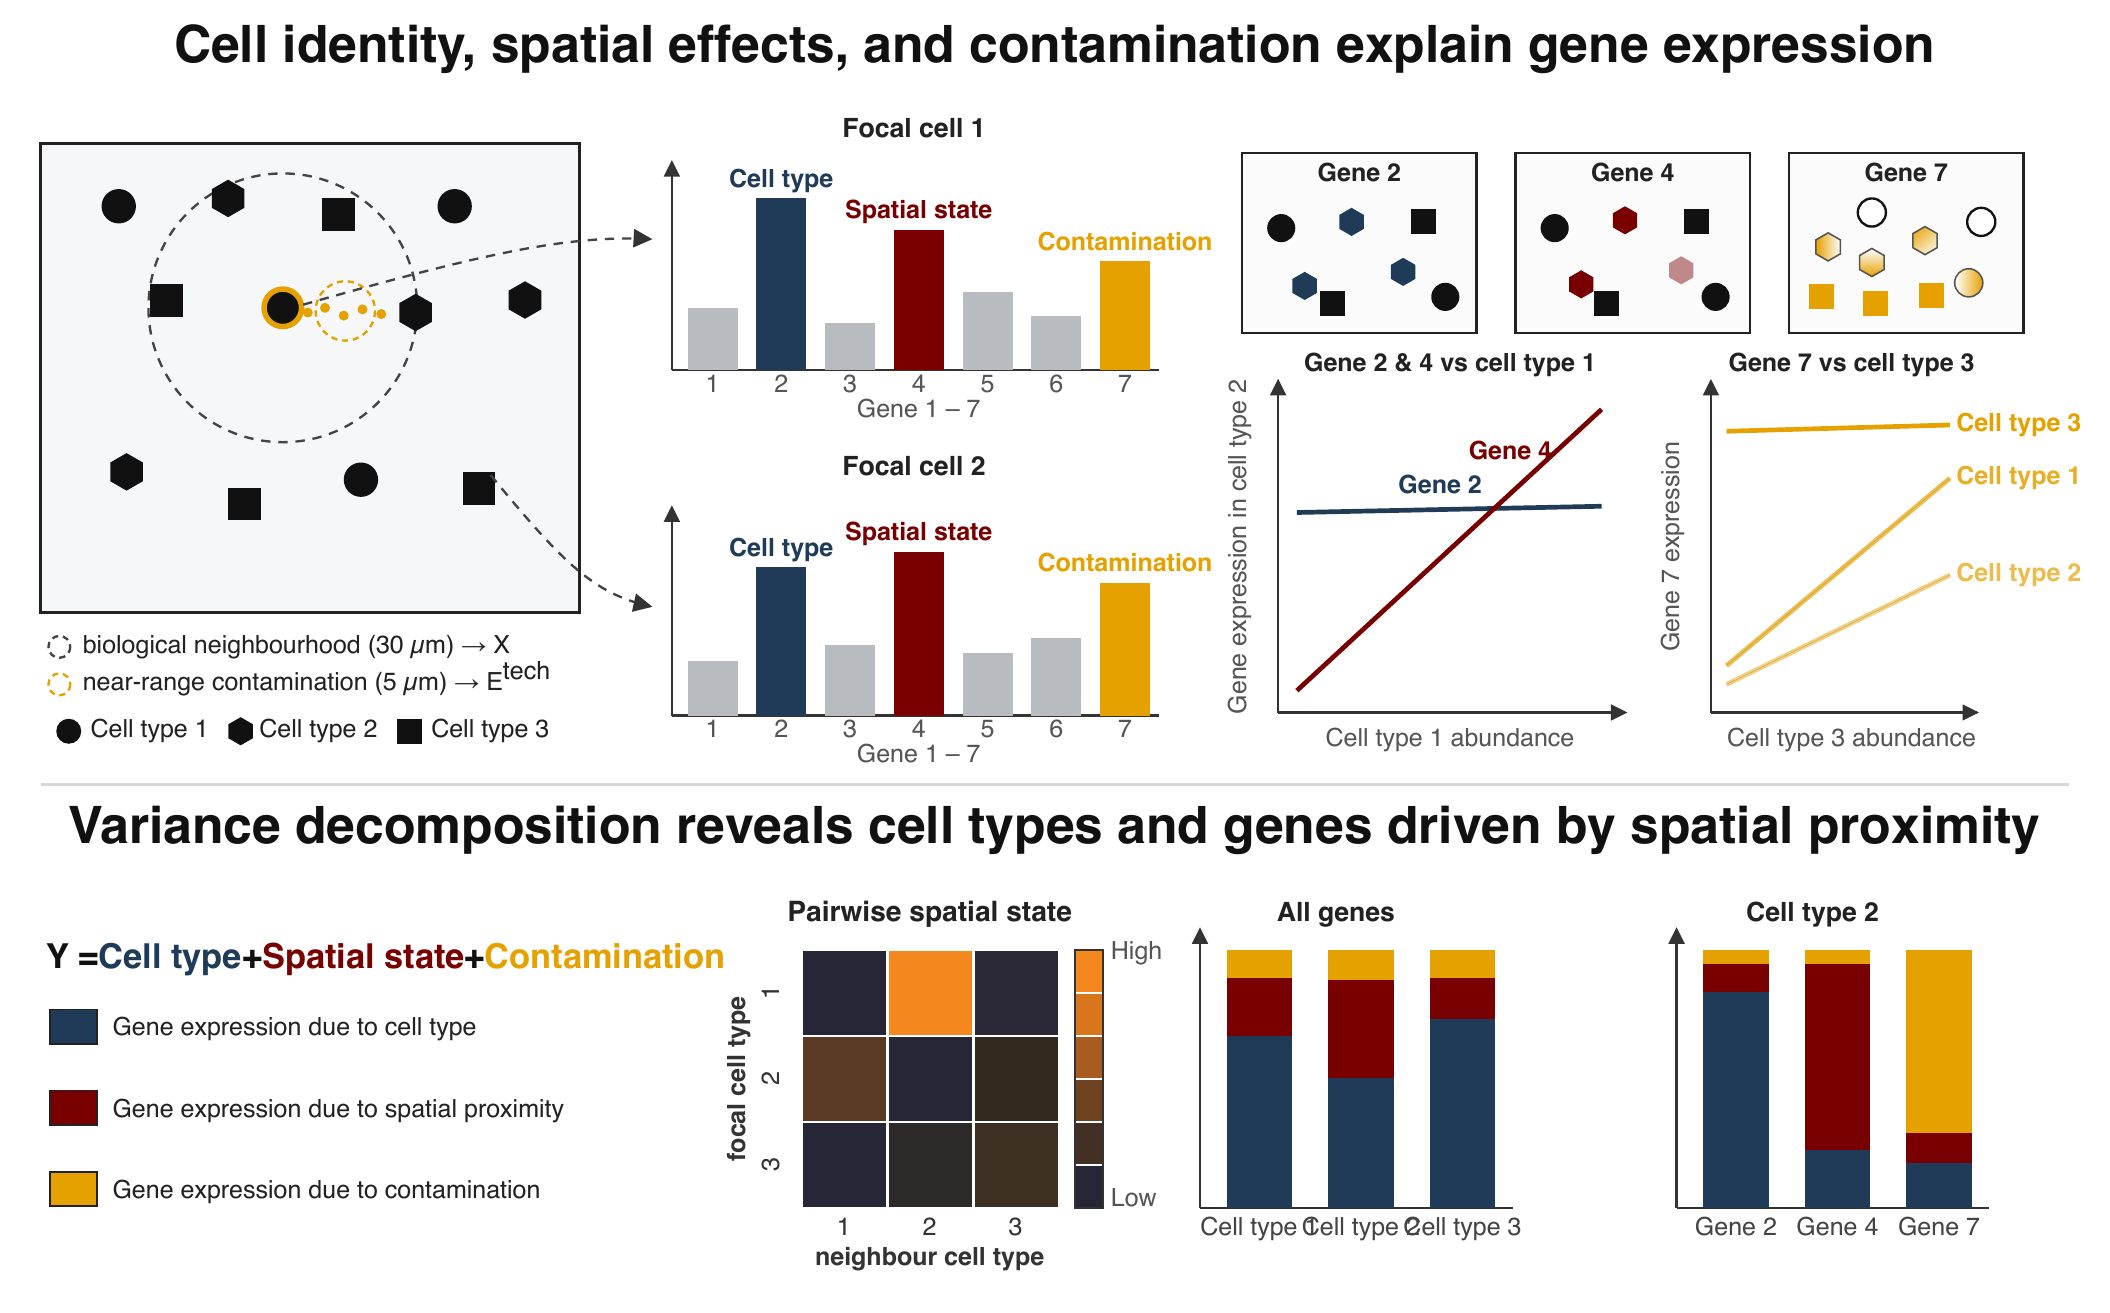
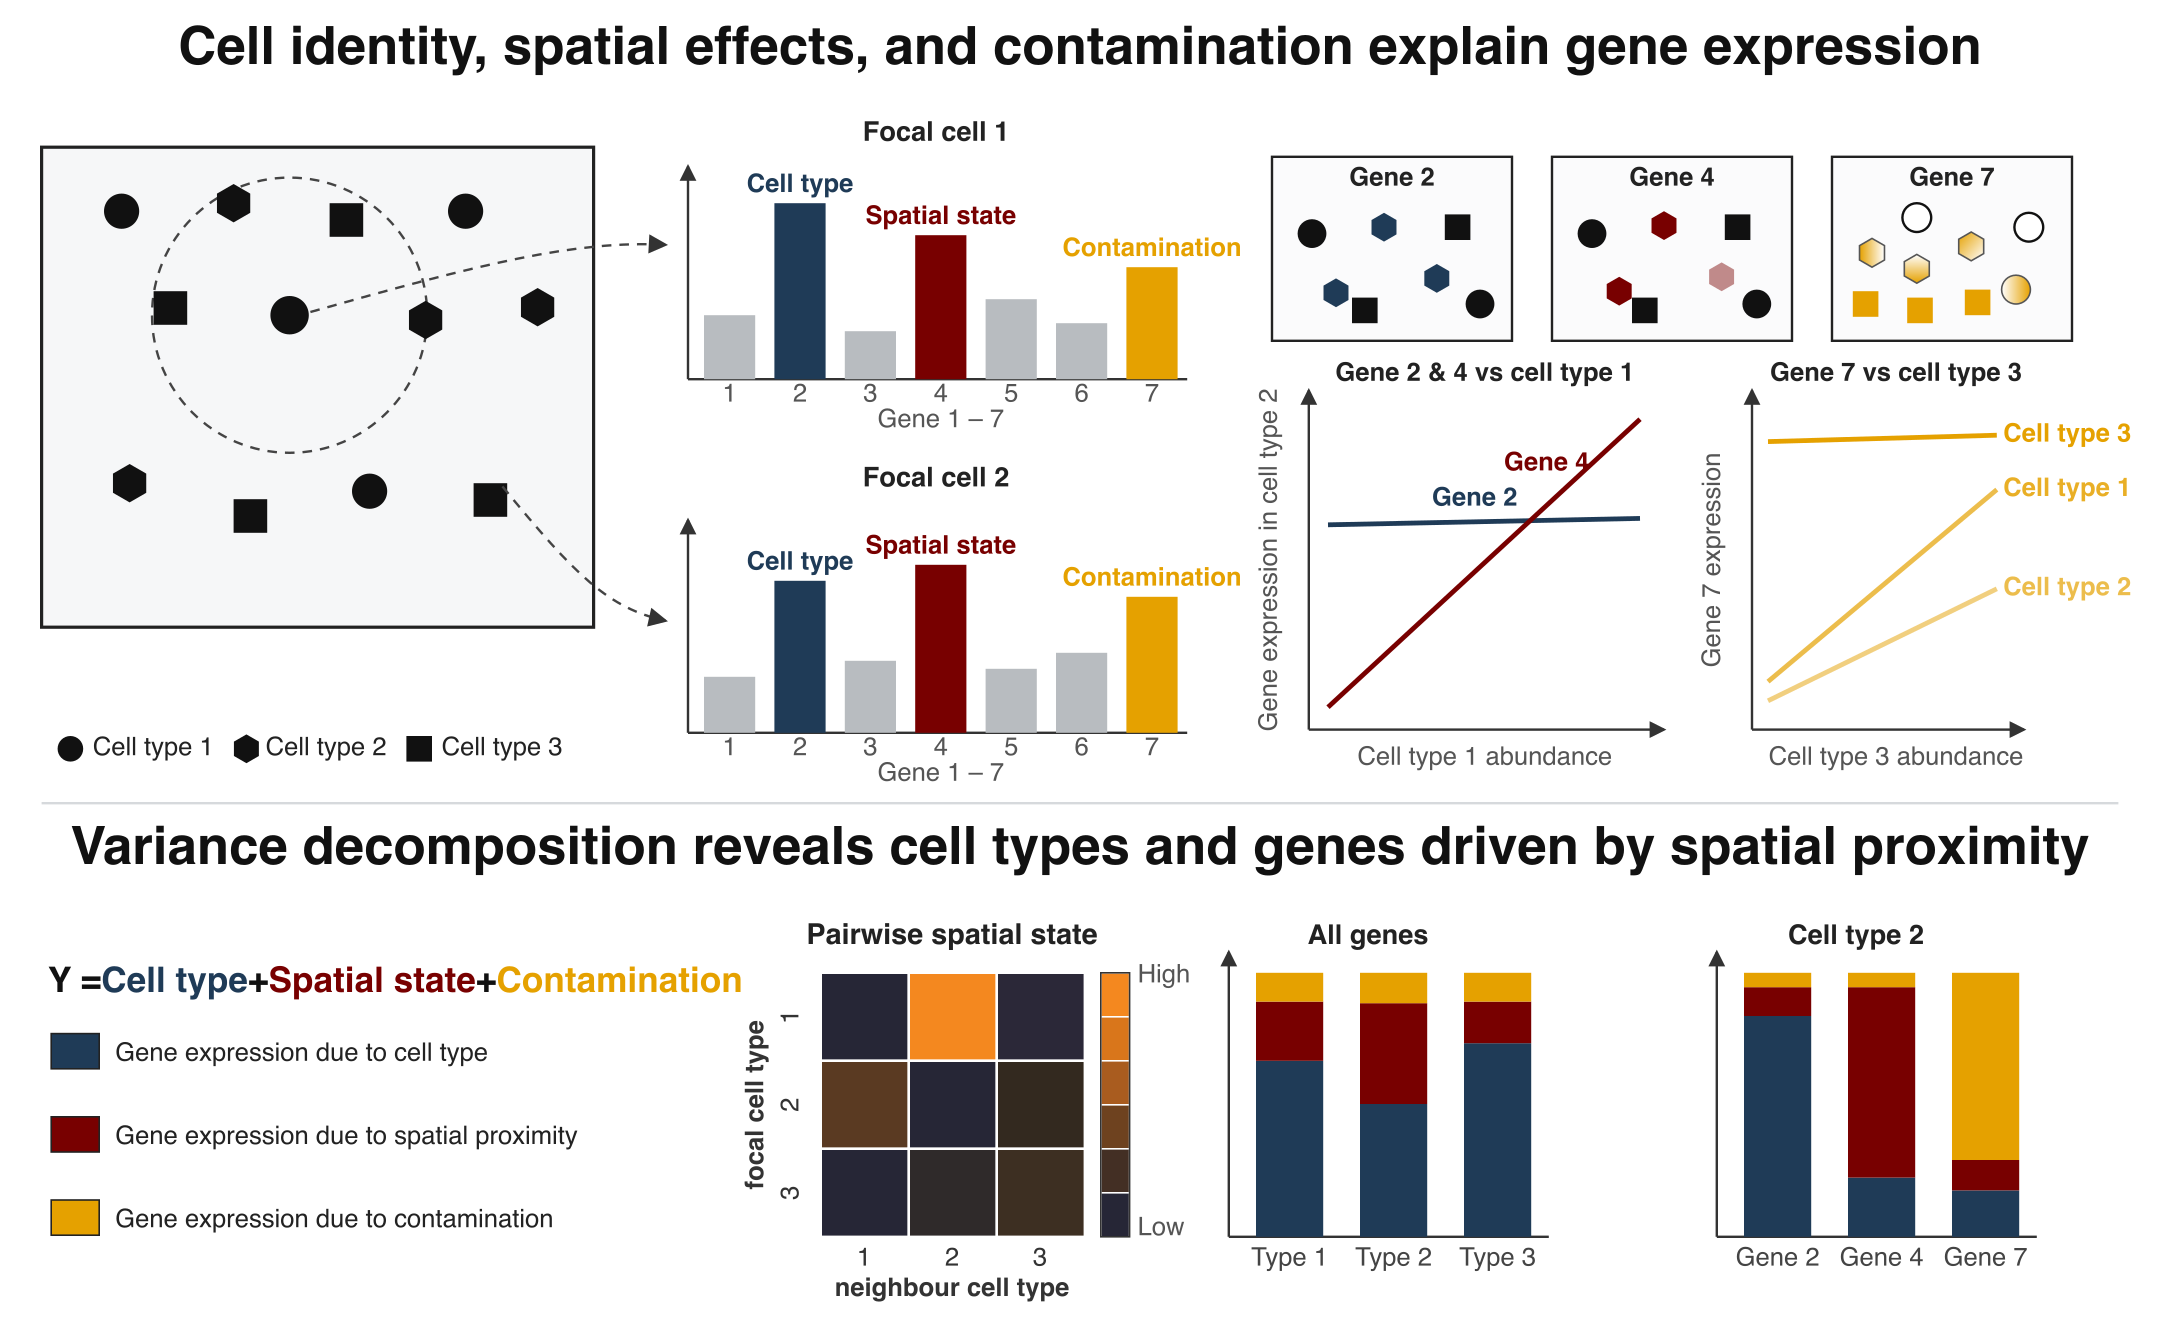
Deploying to gh-pages from @ ecool50/PACE@fbd9a6d8c1837e16711cf9d54a4178f00fd7c3f9 🚀

diff --git a/articles/PACE.html b/articles/PACE.html
@@ -191,15 +191,15 @@ whole pipeline. On this crop it takes about half a minute.</p>
 <span><span class="co">#&gt;  - Computing posterior matrices.</span></span>
 <span><span class="co">#&gt;  - Computation allocated took 0.00 seconds.</span></span>
 <span><span class="co">#&gt;  - Computing 278 x 404 likelihood matrix.</span></span>
-<span><span class="co">#&gt;  - Likelihood calculations took 0.10 seconds.</span></span>
+<span><span class="co">#&gt;  - Likelihood calculations took 0.09 seconds.</span></span>
 <span><span class="co">#&gt;  - Fitting model with 404 mixture components.</span></span>
-<span><span class="co">#&gt;  - Model fitting took 0.14 seconds.</span></span>
+<span><span class="co">#&gt;  - Model fitting took 0.15 seconds.</span></span>
 <span><span class="co">#&gt;  - Computing posterior matrices.</span></span>
 <span><span class="co">#&gt;  - Computation allocated took 0.00 seconds.</span></span>
 <span><span class="co">#&gt;  - Computing 278 x 417 likelihood matrix.</span></span>
-<span><span class="co">#&gt;  - Likelihood calculations took 0.10 seconds.</span></span>
+<span><span class="co">#&gt;  - Likelihood calculations took 0.09 seconds.</span></span>
 <span><span class="co">#&gt;  - Fitting model with 417 mixture components.</span></span>
-<span><span class="co">#&gt;  - Model fitting took 0.22 seconds.</span></span>
+<span><span class="co">#&gt;  - Model fitting took 0.23 seconds.</span></span>
 <span><span class="co">#&gt;  - Computing posterior matrices.</span></span>
 <span><span class="co">#&gt;  - Computation allocated took 0.00 seconds.</span></span>
 <span><span class="co">#&gt;  - Computing 278 x 92 likelihood matrix.</span></span>
@@ -211,31 +211,31 @@ whole pipeline. On this crop it takes about half a minute.</p>
 <span><span class="co">#&gt;  - Computing 278 x 391 likelihood matrix.</span></span>
 <span><span class="co">#&gt;  - Likelihood calculations took 0.09 seconds.</span></span>
 <span><span class="co">#&gt;  - Fitting model with 391 mixture components.</span></span>
-<span><span class="co">#&gt;  - Model fitting took 0.11 seconds.</span></span>
+<span><span class="co">#&gt;  - Model fitting took 0.12 seconds.</span></span>
 <span><span class="co">#&gt;  - Computing posterior matrices.</span></span>
 <span><span class="co">#&gt;  - Computation allocated took 0.00 seconds.</span></span>
 <span><span class="co">#&gt;  - Computing 278 x 430 likelihood matrix.</span></span>
-<span><span class="co">#&gt;  - Likelihood calculations took 0.10 seconds.</span></span>
+<span><span class="co">#&gt;  - Likelihood calculations took 0.09 seconds.</span></span>
 <span><span class="co">#&gt;  - Fitting model with 430 mixture components.</span></span>
 <span><span class="co">#&gt;  - Model fitting took 0.14 seconds.</span></span>
 <span><span class="co">#&gt;  - Computing posterior matrices.</span></span>
 <span><span class="co">#&gt;  - Computation allocated took 0.00 seconds.</span></span>
 <span><span class="co">#&gt;  - Computing 278 x 628 likelihood matrix.</span></span>
-<span><span class="co">#&gt;  - Likelihood calculations took 0.16 seconds.</span></span>
+<span><span class="co">#&gt;  - Likelihood calculations took 0.15 seconds.</span></span>
 <span><span class="co">#&gt;  - Fitting model with 628 mixture components.</span></span>
-<span><span class="co">#&gt;  - Model fitting took 0.19 seconds.</span></span>
+<span><span class="co">#&gt;  - Model fitting took 0.18 seconds.</span></span>
 <span><span class="co">#&gt;  - Computing posterior matrices.</span></span>
 <span><span class="co">#&gt;  - Computation allocated took 0.00 seconds.</span></span>
 <span><span class="co">#&gt;  - Computing 278 x 404 likelihood matrix.</span></span>
-<span><span class="co">#&gt;  - Likelihood calculations took 0.10 seconds.</span></span>
+<span><span class="co">#&gt;  - Likelihood calculations took 0.09 seconds.</span></span>
 <span><span class="co">#&gt;  - Fitting model with 404 mixture components.</span></span>
-<span><span class="co">#&gt;  - Model fitting took 0.34 seconds.</span></span>
+<span><span class="co">#&gt;  - Model fitting took 0.35 seconds.</span></span>
 <span><span class="co">#&gt;  - Computing posterior matrices.</span></span>
-<span><span class="co">#&gt;  - Computation allocated took 0.01 seconds.</span></span>
+<span><span class="co">#&gt;  - Computation allocated took 0.00 seconds.</span></span>
 <span><span class="co">#&gt;  - Computing 278 x 590 likelihood matrix.</span></span>
-<span><span class="co">#&gt;  - Likelihood calculations took 0.15 seconds.</span></span>
+<span><span class="co">#&gt;  - Likelihood calculations took 0.14 seconds.</span></span>
 <span><span class="co">#&gt;  - Fitting model with 590 mixture components.</span></span>
-<span><span class="co">#&gt;  - Model fitting took 0.66 seconds.</span></span>
+<span><span class="co">#&gt;  - Model fitting took 0.70 seconds.</span></span>
 <span><span class="co">#&gt;  - Computing posterior matrices.</span></span>
 <span><span class="co">#&gt;  - Computation allocated took 0.01 seconds.</span></span>
 <span><span class="va">fit</span></span>

diff --git a/reference/paceFit.html b/reference/paceFit.html
@@ -95,14 +95,14 @@ without refitting), call those stages directly.</p>
 <span class="r-out co"><span class="r-pr">#&gt;</span>  - Computing 278 x 404 likelihood matrix.</span>
 <span class="r-out co"><span class="r-pr">#&gt;</span>  - Likelihood calculations took 0.09 seconds.</span>
 <span class="r-out co"><span class="r-pr">#&gt;</span>  - Fitting model with 404 mixture components.</span>
-<span class="r-out co"><span class="r-pr">#&gt;</span>  - Model fitting took 0.14 seconds.</span>
+<span class="r-out co"><span class="r-pr">#&gt;</span>  - Model fitting took 0.15 seconds.</span>
 <span class="r-out co"><span class="r-pr">#&gt;</span>  - Computing posterior matrices.</span>
 <span class="r-out co"><span class="r-pr">#&gt;</span>  - Computation allocated took 0.00 seconds.</span>
 <span class="r-msg co"><span class="r-pr">#&gt;</span>   [mashr] Endothelial: 278 genes shrunk; sig (lfsr&lt;0.05) = 2</span>
 <span class="r-out co"><span class="r-pr">#&gt;</span>  - Computing 278 x 417 likelihood matrix.</span>
-<span class="r-out co"><span class="r-pr">#&gt;</span>  - Likelihood calculations took 0.10 seconds.</span>
+<span class="r-out co"><span class="r-pr">#&gt;</span>  - Likelihood calculations took 0.09 seconds.</span>
 <span class="r-out co"><span class="r-pr">#&gt;</span>  - Fitting model with 417 mixture components.</span>
-<span class="r-out co"><span class="r-pr">#&gt;</span>  - Model fitting took 0.22 seconds.</span>
+<span class="r-out co"><span class="r-pr">#&gt;</span>  - Model fitting took 0.23 seconds.</span>
 <span class="r-out co"><span class="r-pr">#&gt;</span>  - Computing posterior matrices.</span>
 <span class="r-out co"><span class="r-pr">#&gt;</span>  - Computation allocated took 0.00 seconds.</span>
 <span class="r-msg co"><span class="r-pr">#&gt;</span>   [mashr] Macrophage: 278 genes shrunk; sig (lfsr&lt;0.05) = 5</span>
@@ -114,20 +114,20 @@ without refitting), call those stages directly.</p>
 <span class="r-out co"><span class="r-pr">#&gt;</span>  - Computation allocated took 0.00 seconds.</span>
 <span class="r-msg co"><span class="r-pr">#&gt;</span>   [mashr] Myoepithelial: 278 genes shrunk; sig (lfsr&lt;0.05) = 0</span>
 <span class="r-out co"><span class="r-pr">#&gt;</span>  - Computing 278 x 391 likelihood matrix.</span>
-<span class="r-out co"><span class="r-pr">#&gt;</span>  - Likelihood calculations took 0.09 seconds.</span>
+<span class="r-out co"><span class="r-pr">#&gt;</span>  - Likelihood calculations took 0.08 seconds.</span>
 <span class="r-out co"><span class="r-pr">#&gt;</span>  - Fitting model with 391 mixture components.</span>
 <span class="r-out co"><span class="r-pr">#&gt;</span>  - Model fitting took 0.11 seconds.</span>
 <span class="r-out co"><span class="r-pr">#&gt;</span>  - Computing posterior matrices.</span>
 <span class="r-out co"><span class="r-pr">#&gt;</span>  - Computation allocated took 0.00 seconds.</span>
 <span class="r-msg co"><span class="r-pr">#&gt;</span>   [mashr] Stromal: 278 genes shrunk; sig (lfsr&lt;0.05) = 3</span>
 <span class="r-out co"><span class="r-pr">#&gt;</span>  - Computing 278 x 430 likelihood matrix.</span>
-<span class="r-out co"><span class="r-pr">#&gt;</span>  - Likelihood calculations took 0.10 seconds.</span>
+<span class="r-out co"><span class="r-pr">#&gt;</span>  - Likelihood calculations took 0.09 seconds.</span>
 <span class="r-out co"><span class="r-pr">#&gt;</span>  - Fitting model with 430 mixture components.</span>
 <span class="r-out co"><span class="r-pr">#&gt;</span>  - Model fitting took 0.14 seconds.</span>
 <span class="r-out co"><span class="r-pr">#&gt;</span>  - Computing posterior matrices.</span>
 <span class="r-out co"><span class="r-pr">#&gt;</span>  - Computation allocated took 0.00 seconds.</span>
 <span class="r-out co"><span class="r-pr">#&gt;</span>  - Computing 278 x 628 likelihood matrix.</span>
-<span class="r-out co"><span class="r-pr">#&gt;</span>  - Likelihood calculations took 0.16 seconds.</span>
+<span class="r-out co"><span class="r-pr">#&gt;</span>  - Likelihood calculations took 0.15 seconds.</span>
 <span class="r-out co"><span class="r-pr">#&gt;</span>  - Fitting model with 628 mixture components.</span>
 <span class="r-out co"><span class="r-pr">#&gt;</span>  - Model fitting took 0.18 seconds.</span>
 <span class="r-out co"><span class="r-pr">#&gt;</span>  - Computing posterior matrices.</span>
@@ -136,15 +136,15 @@ without refitting), call those stages directly.</p>
 <span class="r-out co"><span class="r-pr">#&gt;</span>  - Computing 278 x 404 likelihood matrix.</span>
 <span class="r-out co"><span class="r-pr">#&gt;</span>  - Likelihood calculations took 0.09 seconds.</span>
 <span class="r-out co"><span class="r-pr">#&gt;</span>  - Fitting model with 404 mixture components.</span>
-<span class="r-out co"><span class="r-pr">#&gt;</span>  - Model fitting took 0.34 seconds.</span>
+<span class="r-out co"><span class="r-pr">#&gt;</span>  - Model fitting took 0.36 seconds.</span>
 <span class="r-out co"><span class="r-pr">#&gt;</span>  - Computing posterior matrices.</span>
 <span class="r-out co"><span class="r-pr">#&gt;</span>  - Computation allocated took 0.00 seconds.</span>
 <span class="r-out co"><span class="r-pr">#&gt;</span>  - Computing 278 x 590 likelihood matrix.</span>
-<span class="r-out co"><span class="r-pr">#&gt;</span>  - Likelihood calculations took 0.15 seconds.</span>
+<span class="r-out co"><span class="r-pr">#&gt;</span>  - Likelihood calculations took 0.14 seconds.</span>
 <span class="r-out co"><span class="r-pr">#&gt;</span>  - Fitting model with 590 mixture components.</span>
-<span class="r-out co"><span class="r-pr">#&gt;</span>  - Model fitting took 0.67 seconds.</span>
+<span class="r-out co"><span class="r-pr">#&gt;</span>  - Model fitting took 0.71 seconds.</span>
 <span class="r-out co"><span class="r-pr">#&gt;</span>  - Computing posterior matrices.</span>
-<span class="r-out co"><span class="r-pr">#&gt;</span>  - Computation allocated took 0.01 seconds.</span>
+<span class="r-out co"><span class="r-pr">#&gt;</span>  - Computation allocated took 0.00 seconds.</span>
 <span class="r-msg co"><span class="r-pr">#&gt;</span>   [mashr] Tumour: 278 genes shrunk; sig (lfsr&lt;0.05) = 29</span>
 <span class="r-in"><span><span class="fu"><a href="https://rdrr.io/r/utils/head.html" class="external-link">head</a></span><span class="op">(</span><span class="fu"><a href="neighbourSlopes.html">neighbourSlopes</a></span><span class="op">(</span><span class="va">fit</span><span class="op">)</span><span class="op">)</span></span></span>
 <span class="r-out co"><span class="r-pr">#&gt;</span>     gene  focal neighbour   term      estimate   std.error estimate_shrunk</span>

diff --git a/reference/paceShrink.html b/reference/paceShrink.html
@@ -69,7 +69,7 @@ multivariate adaptive shrinkage, populating <code><a href="neighbourSlopes.html"
 <span class="r-out co"><span class="r-pr">#&gt;</span>  - Computing 278 x 313 likelihood matrix.</span>
 <span class="r-out co"><span class="r-pr">#&gt;</span>  - Likelihood calculations took 0.07 seconds.</span>
 <span class="r-out co"><span class="r-pr">#&gt;</span>  - Fitting model with 313 mixture components.</span>
-<span class="r-out co"><span class="r-pr">#&gt;</span>  - Model fitting took 0.09 seconds.</span>
+<span class="r-out co"><span class="r-pr">#&gt;</span>  - Model fitting took 0.11 seconds.</span>
 <span class="r-out co"><span class="r-pr">#&gt;</span>  - Computing posterior matrices.</span>
 <span class="r-out co"><span class="r-pr">#&gt;</span>  - Computation allocated took 0.00 seconds.</span>
 <span class="r-msg co"><span class="r-pr">#&gt;</span>   [mashr] B_Cell: 278 genes shrunk; sig (lfsr&lt;0.05) = 0</span>
@@ -104,18 +104,18 @@ multivariate adaptive shrinkage, populating <code><a href="neighbourSlopes.html"
 <span class="r-out co"><span class="r-pr">#&gt;</span>  - Computing 278 x 391 likelihood matrix.</span>
 <span class="r-out co"><span class="r-pr">#&gt;</span>  - Likelihood calculations took 0.09 seconds.</span>
 <span class="r-out co"><span class="r-pr">#&gt;</span>  - Fitting model with 391 mixture components.</span>
-<span class="r-out co"><span class="r-pr">#&gt;</span>  - Model fitting took 0.11 seconds.</span>
+<span class="r-out co"><span class="r-pr">#&gt;</span>  - Model fitting took 0.12 seconds.</span>
 <span class="r-out co"><span class="r-pr">#&gt;</span>  - Computing posterior matrices.</span>
 <span class="r-out co"><span class="r-pr">#&gt;</span>  - Computation allocated took 0.00 seconds.</span>
 <span class="r-msg co"><span class="r-pr">#&gt;</span>   [mashr] Stromal: 278 genes shrunk; sig (lfsr&lt;0.05) = 3</span>
 <span class="r-out co"><span class="r-pr">#&gt;</span>  - Computing 278 x 430 likelihood matrix.</span>
 <span class="r-out co"><span class="r-pr">#&gt;</span>  - Likelihood calculations took 0.10 seconds.</span>
 <span class="r-out co"><span class="r-pr">#&gt;</span>  - Fitting model with 430 mixture components.</span>
-<span class="r-out co"><span class="r-pr">#&gt;</span>  - Model fitting took 0.13 seconds.</span>
+<span class="r-out co"><span class="r-pr">#&gt;</span>  - Model fitting took 0.14 seconds.</span>
 <span class="r-out co"><span class="r-pr">#&gt;</span>  - Computing posterior matrices.</span>
 <span class="r-out co"><span class="r-pr">#&gt;</span>  - Computation allocated took 0.00 seconds.</span>
 <span class="r-out co"><span class="r-pr">#&gt;</span>  - Computing 278 x 628 likelihood matrix.</span>
-<span class="r-out co"><span class="r-pr">#&gt;</span>  - Likelihood calculations took 0.16 seconds.</span>
+<span class="r-out co"><span class="r-pr">#&gt;</span>  - Likelihood calculations took 0.15 seconds.</span>
 <span class="r-out co"><span class="r-pr">#&gt;</span>  - Fitting model with 628 mixture components.</span>
 <span class="r-out co"><span class="r-pr">#&gt;</span>  - Model fitting took 0.18 seconds.</span>
 <span class="r-out co"><span class="r-pr">#&gt;</span>  - Computing posterior matrices.</span>
@@ -124,13 +124,13 @@ multivariate adaptive shrinkage, populating <code><a href="neighbourSlopes.html"
 <span class="r-out co"><span class="r-pr">#&gt;</span>  - Computing 278 x 404 likelihood matrix.</span>
 <span class="r-out co"><span class="r-pr">#&gt;</span>  - Likelihood calculations took 0.09 seconds.</span>
 <span class="r-out co"><span class="r-pr">#&gt;</span>  - Fitting model with 404 mixture components.</span>
-<span class="r-out co"><span class="r-pr">#&gt;</span>  - Model fitting took 0.36 seconds.</span>
+<span class="r-out co"><span class="r-pr">#&gt;</span>  - Model fitting took 0.40 seconds.</span>
 <span class="r-out co"><span class="r-pr">#&gt;</span>  - Computing posterior matrices.</span>
 <span class="r-out co"><span class="r-pr">#&gt;</span>  - Computation allocated took 0.01 seconds.</span>
 <span class="r-out co"><span class="r-pr">#&gt;</span>  - Computing 278 x 590 likelihood matrix.</span>
-<span class="r-out co"><span class="r-pr">#&gt;</span>  - Likelihood calculations took 0.15 seconds.</span>
+<span class="r-out co"><span class="r-pr">#&gt;</span>  - Likelihood calculations took 0.14 seconds.</span>
 <span class="r-out co"><span class="r-pr">#&gt;</span>  - Fitting model with 590 mixture components.</span>
-<span class="r-out co"><span class="r-pr">#&gt;</span>  - Model fitting took 0.60 seconds.</span>
+<span class="r-out co"><span class="r-pr">#&gt;</span>  - Model fitting took 0.66 seconds.</span>
 <span class="r-out co"><span class="r-pr">#&gt;</span>  - Computing posterior matrices.</span>
 <span class="r-out co"><span class="r-pr">#&gt;</span>  - Computation allocated took 0.00 seconds.</span>
 <span class="r-msg co"><span class="r-pr">#&gt;</span>   [mashr] Tumour: 278 genes shrunk; sig (lfsr&lt;0.05) = 29</span>

diff --git a/articles/PACE.md b/articles/PACE.md
@@ -122,15 +122,15 @@ fit <- paceFit(spe,
 #>  - Computing posterior matrices.
 #>  - Computation allocated took 0.00 seconds.
 #>  - Computing 278 x 404 likelihood matrix.
-#>  - Likelihood calculations took 0.10 seconds.
+#>  - Likelihood calculations took 0.09 seconds.
 #>  - Fitting model with 404 mixture components.
-#>  - Model fitting took 0.14 seconds.
+#>  - Model fitting took 0.15 seconds.
 #>  - Computing posterior matrices.
 #>  - Computation allocated took 0.00 seconds.
 #>  - Computing 278 x 417 likelihood matrix.
-#>  - Likelihood calculations took 0.10 seconds.
+#>  - Likelihood calculations took 0.09 seconds.
 #>  - Fitting model with 417 mixture components.
-#>  - Model fitting took 0.22 seconds.
+#>  - Model fitting took 0.23 seconds.
 #>  - Computing posterior matrices.
 #>  - Computation allocated took 0.00 seconds.
 #>  - Computing 278 x 92 likelihood matrix.
@@ -142,31 +142,31 @@ fit <- paceFit(spe,
 #>  - Computing 278 x 391 likelihood matrix.
 #>  - Likelihood calculations took 0.09 seconds.
 #>  - Fitting model with 391 mixture components.
-#>  - Model fitting took 0.11 seconds.
+#>  - Model fitting took 0.12 seconds.
 #>  - Computing posterior matrices.
 #>  - Computation allocated took 0.00 seconds.
 #>  - Computing 278 x 430 likelihood matrix.
-#>  - Likelihood calculations took 0.10 seconds.
+#>  - Likelihood calculations took 0.09 seconds.
 #>  - Fitting model with 430 mixture components.
 #>  - Model fitting took 0.14 seconds.
 #>  - Computing posterior matrices.
 #>  - Computation allocated took 0.00 seconds.
 #>  - Computing 278 x 628 likelihood matrix.
-#>  - Likelihood calculations took 0.16 seconds.
+#>  - Likelihood calculations took 0.15 seconds.
 #>  - Fitting model with 628 mixture components.
-#>  - Model fitting took 0.19 seconds.
+#>  - Model fitting took 0.18 seconds.
 #>  - Computing posterior matrices.
 #>  - Computation allocated took 0.00 seconds.
 #>  - Computing 278 x 404 likelihood matrix.
-#>  - Likelihood calculations took 0.10 seconds.
+#>  - Likelihood calculations took 0.09 seconds.
 #>  - Fitting model with 404 mixture components.
-#>  - Model fitting took 0.34 seconds.
+#>  - Model fitting took 0.35 seconds.
 #>  - Computing posterior matrices.
-#>  - Computation allocated took 0.01 seconds.
+#>  - Computation allocated took 0.00 seconds.
 #>  - Computing 278 x 590 likelihood matrix.
-#>  - Likelihood calculations took 0.15 seconds.
+#>  - Likelihood calculations took 0.14 seconds.
 #>  - Fitting model with 590 mixture components.
-#>  - Model fitting took 0.66 seconds.
+#>  - Model fitting took 0.70 seconds.
 #>  - Computing posterior matrices.
 #>  - Computation allocated took 0.01 seconds.
 fit

diff --git a/reference/paceFit.md b/reference/paceFit.md
@@ -65,14 +65,14 @@ fit <- paceFit(spe, celltype_col = "cellType", verbose = FALSE)
 #>  - Computing 278 x 404 likelihood matrix.
 #>  - Likelihood calculations took 0.09 seconds.
 #>  - Fitting model with 404 mixture components.
-#>  - Model fitting took 0.14 seconds.
+#>  - Model fitting took 0.15 seconds.
 #>  - Computing posterior matrices.
 #>  - Computation allocated took 0.00 seconds.
 #>   [mashr] Endothelial: 278 genes shrunk; sig (lfsr<0.05) = 2
 #>  - Computing 278 x 417 likelihood matrix.
-#>  - Likelihood calculations took 0.10 seconds.
+#>  - Likelihood calculations took 0.09 seconds.
 #>  - Fitting model with 417 mixture components.
-#>  - Model fitting took 0.22 seconds.
+#>  - Model fitting took 0.23 seconds.
 #>  - Computing posterior matrices.
 #>  - Computation allocated took 0.00 seconds.
 #>   [mashr] Macrophage: 278 genes shrunk; sig (lfsr<0.05) = 5
@@ -84,20 +84,20 @@ fit <- paceFit(spe, celltype_col = "cellType", verbose = FALSE)
 #>  - Computation allocated took 0.00 seconds.
 #>   [mashr] Myoepithelial: 278 genes shrunk; sig (lfsr<0.05) = 0
 #>  - Computing 278 x 391 likelihood matrix.
-#>  - Likelihood calculations took 0.09 seconds.
+#>  - Likelihood calculations took 0.08 seconds.
 #>  - Fitting model with 391 mixture components.
 #>  - Model fitting took 0.11 seconds.
 #>  - Computing posterior matrices.
 #>  - Computation allocated took 0.00 seconds.
 #>   [mashr] Stromal: 278 genes shrunk; sig (lfsr<0.05) = 3
 #>  - Computing 278 x 430 likelihood matrix.
-#>  - Likelihood calculations took 0.10 seconds.
+#>  - Likelihood calculations took 0.09 seconds.
 #>  - Fitting model with 430 mixture components.
 #>  - Model fitting took 0.14 seconds.
 #>  - Computing posterior matrices.
 #>  - Computation allocated took 0.00 seconds.
 #>  - Computing 278 x 628 likelihood matrix.
-#>  - Likelihood calculations took 0.16 seconds.
+#>  - Likelihood calculations took 0.15 seconds.
 #>  - Fitting model with 628 mixture components.
 #>  - Model fitting took 0.18 seconds.
 #>  - Computing posterior matrices.
@@ -106,15 +106,15 @@ fit <- paceFit(spe, celltype_col = "cellType", verbose = FALSE)
 #>  - Computing 278 x 404 likelihood matrix.
 #>  - Likelihood calculations took 0.09 seconds.
 #>  - Fitting model with 404 mixture components.
-#>  - Model fitting took 0.34 seconds.
+#>  - Model fitting took 0.36 seconds.
 #>  - Computing posterior matrices.
 #>  - Computation allocated took 0.00 seconds.
 #>  - Computing 278 x 590 likelihood matrix.
-#>  - Likelihood calculations took 0.15 seconds.
+#>  - Likelihood calculations took 0.14 seconds.
 #>  - Fitting model with 590 mixture components.
-#>  - Model fitting took 0.67 seconds.
+#>  - Model fitting took 0.71 seconds.
 #>  - Computing posterior matrices.
-#>  - Computation allocated took 0.01 seconds.
+#>  - Computation allocated took 0.00 seconds.
 #>   [mashr] Tumour: 278 genes shrunk; sig (lfsr<0.05) = 29
 head(neighbourSlopes(fit))
 #>     gene  focal neighbour   term      estimate   std.error estimate_shrunk

diff --git a/reference/paceShrink.md b/reference/paceShrink.md
@@ -37,7 +37,7 @@ fit <- paceShrink(fit)
 #>  - Computing 278 x 313 likelihood matrix.
 #>  - Likelihood calculations took 0.07 seconds.
 #>  - Fitting model with 313 mixture components.
-#>  - Model fitting took 0.09 seconds.
+#>  - Model fitting took 0.11 seconds.
 #>  - Computing posterior matrices.
 #>  - Computation allocated took 0.00 seconds.
 #>   [mashr] B_Cell: 278 genes shrunk; sig (lfsr<0.05) = 0
@@ -72,18 +72,18 @@ fit <- paceShrink(fit)
 #>  - Computing 278 x 391 likelihood matrix.
 #>  - Likelihood calculations took 0.09 seconds.
 #>  - Fitting model with 391 mixture components.
-#>  - Model fitting took 0.11 seconds.
+#>  - Model fitting took 0.12 seconds.
 #>  - Computing posterior matrices.
 #>  - Computation allocated took 0.00 seconds.
 #>   [mashr] Stromal: 278 genes shrunk; sig (lfsr<0.05) = 3
 #>  - Computing 278 x 430 likelihood matrix.
 #>  - Likelihood calculations took 0.10 seconds.
 #>  - Fitting model with 430 mixture components.
-#>  - Model fitting took 0.13 seconds.
+#>  - Model fitting took 0.14 seconds.
 #>  - Computing posterior matrices.
 #>  - Computation allocated took 0.00 seconds.
 #>  - Computing 278 x 628 likelihood matrix.
-#>  - Likelihood calculations took 0.16 seconds.
+#>  - Likelihood calculations took 0.15 seconds.
 #>  - Fitting model with 628 mixture components.
 #>  - Model fitting took 0.18 seconds.
 #>  - Computing posterior matrices.
@@ -92,13 +92,13 @@ fit <- paceShrink(fit)
 #>  - Computing 278 x 404 likelihood matrix.
 #>  - Likelihood calculations took 0.09 seconds.
 #>  - Fitting model with 404 mixture components.
-#>  - Model fitting took 0.36 seconds.
+#>  - Model fitting took 0.40 seconds.
 #>  - Computing posterior matrices.
 #>  - Computation allocated took 0.01 seconds.
 #>  - Computing 278 x 590 likelihood matrix.
-#>  - Likelihood calculations took 0.15 seconds.
+#>  - Likelihood calculations took 0.14 seconds.
 #>  - Fitting model with 590 mixture components.
-#>  - Model fitting took 0.60 seconds.
+#>  - Model fitting took 0.66 seconds.
 #>  - Computing posterior matrices.
 #>  - Computation allocated took 0.00 seconds.
 #>   [mashr] Tumour: 278 genes shrunk; sig (lfsr<0.05) = 29